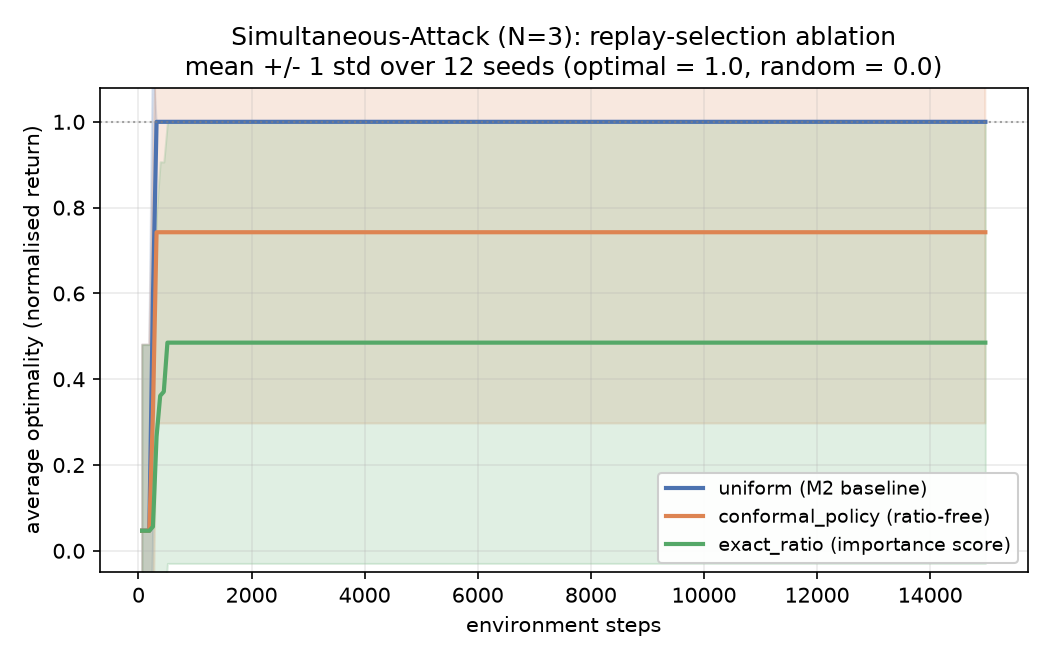
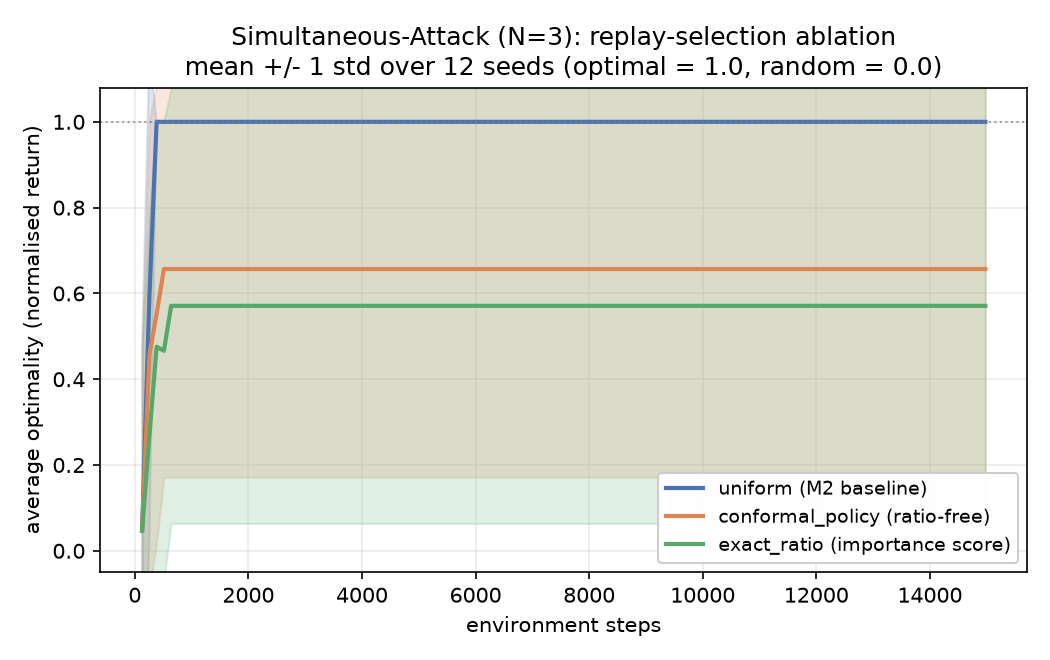
M3: guard cal_size vs collection-chunk; widen ablation calibration set
* iql.py: raise if cal_size > steps_per_update() (the calibration set is sliced
  from one collection chunk; asking for more silently shrank it). Static check,
  outside the traced train.
* scripts/ablation.py: num_steps 8 -> 16 so the Simu chunk (128) >= cal_size (128);
  the calibration set is now full-size (finer p-values). Conclusion unchanged:
  uniform 1.000 (AUC 0.988) vs conformal_policy 0.657, exact_ratio 0.571 over 12
  seeds -- conformal underperforms on Simu (large inter-seed variance), confirming
  the effect is a genuine property, not a calibration artifact. Figure regenerated.

diff --git a/code/conformal_marl/iql.py b/code/conformal_marl/iql.py
@@ -271,6 +271,16 @@ def make_train(config: IQLConfig, env: Any) -> Callable[[chex.PRNGKey], dict]:
     )
     sampler = get_sampler(cfg.sampler_name)
 
+    # The calibration set is sliced from one collection chunk (steps_per_update
+    # transitions). Asking for more than that would silently shrink it, so guard the
+    # static config up front (cheap, outside the traced train).
+    if cfg.cal_size > cfg.steps_per_update():
+        raise ValueError(
+            f"cal_size ({cfg.cal_size}) > steps_per_update ({cfg.steps_per_update()}): "
+            f"the calibration set is taken from one collection chunk, so it cannot "
+            f"exceed num_envs * num_steps. Lower cal_size or raise num_steps/num_envs."
+        )
+
     def _reset_carry(batch: int) -> chex.Array:
         return QNetwork.initialize_carry(cfg.hidden_dim, batch)
 

diff --git a/code/scripts/ablation.py b/code/scripts/ablation.py
@@ -81,7 +81,7 @@ def simu_ablation_config(sampler: str) -> IQLConfig:
     return IQLConfig(
         total_timesteps=15_000,
         num_envs=8,
-        num_steps=8,
+        num_steps=16,  # chunk = 16*8 = 128 transitions/iter >= cal_size (no shrink)
         num_grad_steps=8,
         learning_starts=256,
         hidden_dim=64,
